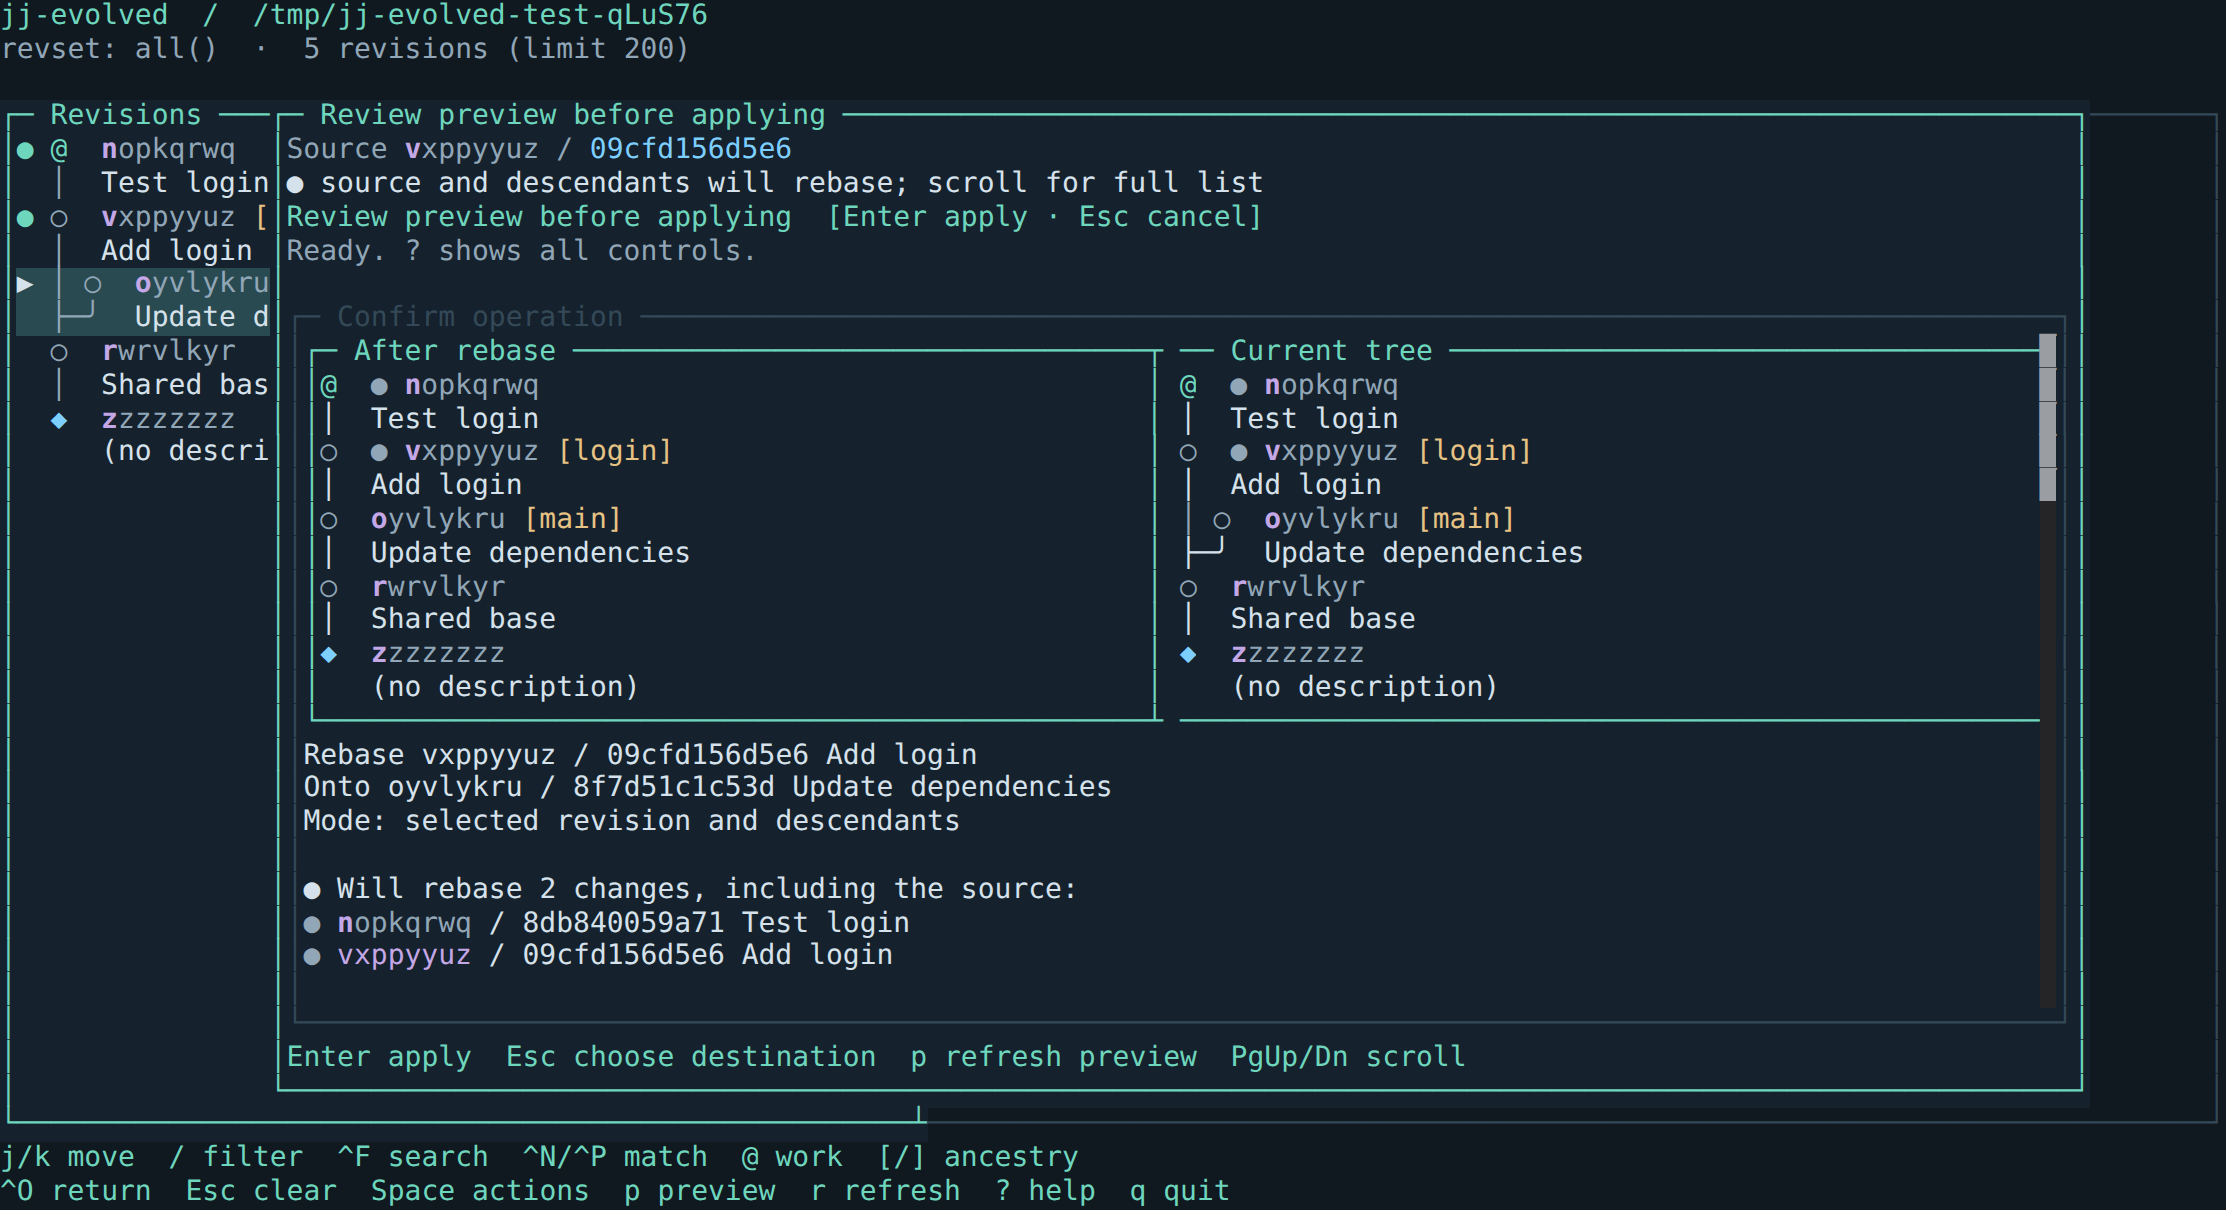
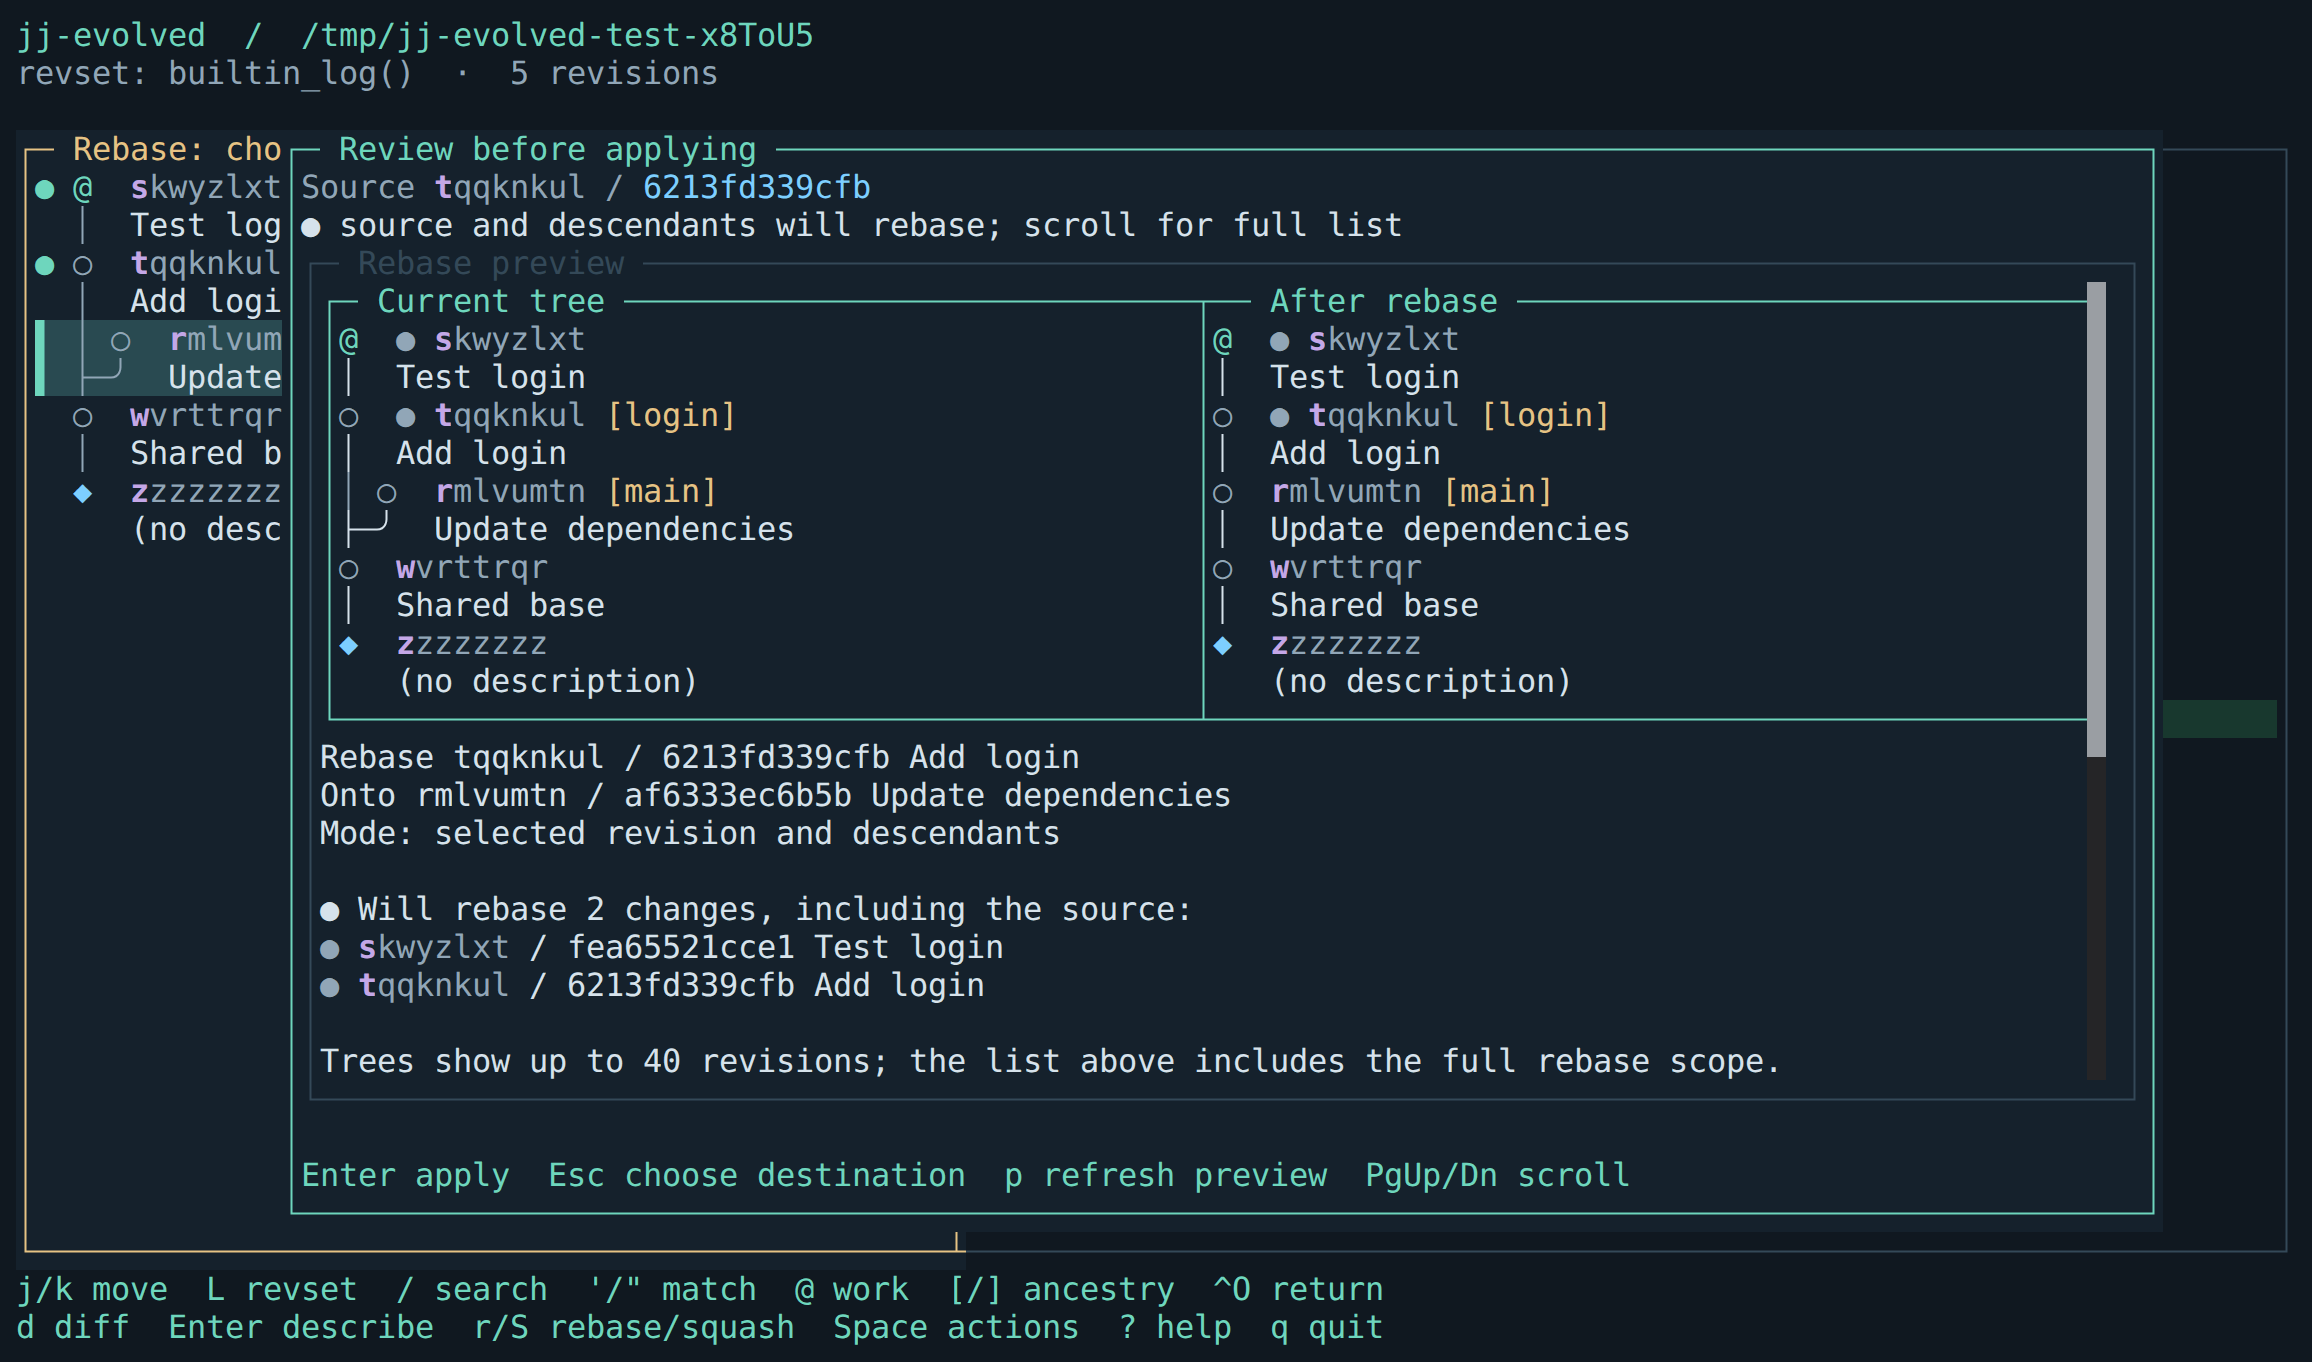
fix(projects): refresh the JJ Evolved rebase screenshot
Re-render the preview from the current jj-evolved main, where the current
tree now sits on the left and the proposed rebase on the right. Update the
image dimensions and alt text to match.

diff --git a/app/projects/jj-evolved/page.tsx b/app/projects/jj-evolved/page.tsx
@@ -15,9 +15,9 @@ export default function JJEvolvedPage() {
       repository="https://github.com/jacobabahn/jj-evolved"
       screenshot={{
         src: "/projects/jj-evolved-rebase.webp",
-        width: 2226,
-        height: 1210,
-        alt: "JJ Evolved comparing a proposed rebase on the left with the current revision tree on the right. Two login changes move together onto main.",
+        width: 2312,
+        height: 1362,
+        alt: "JJ Evolved comparing the current revision tree on the left with a proposed rebase on the right. Two login changes move together onto main.",
         caption: "A rebase preview captured from the app’s renderer using an example repository.",
       }}
     >
